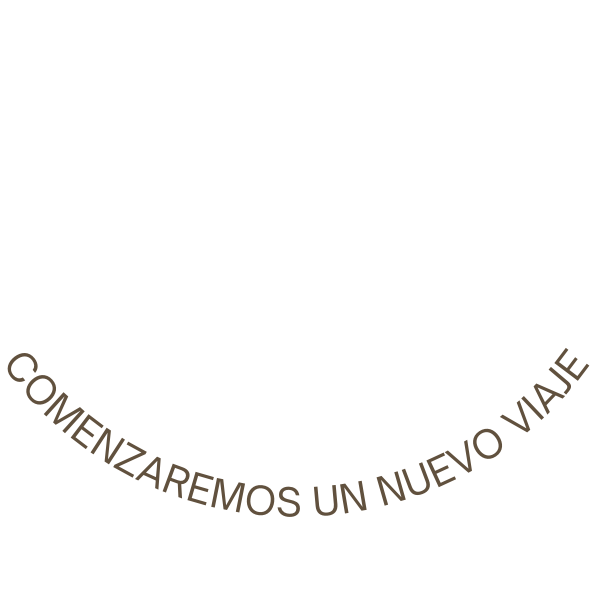
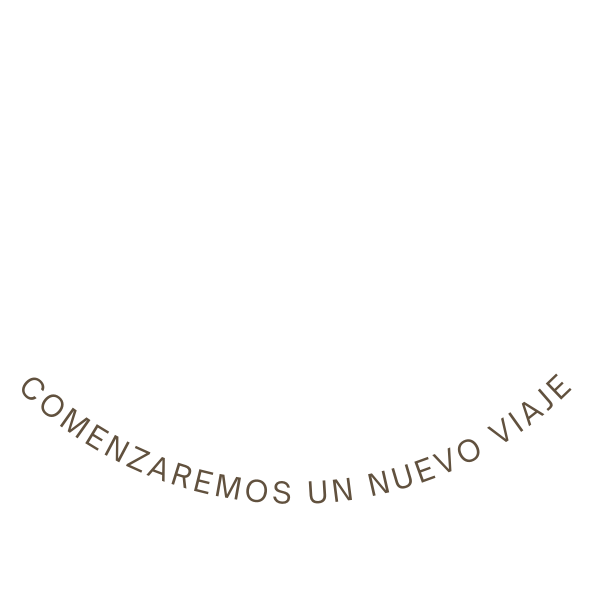
Se mejoró el efecto de las letras y se alineó mejor la imagen con el resto del contenido

Changed region(s): [[0.0, 0.5787, 1.0, 0.8832]]

diff --git a/boda_nicole_ro/src/components/Countdown/Countdown.module.css b/boda_nicole_ro/src/components/Countdown/Countdown.module.css
@@ -118,18 +118,18 @@
 }
 
 .nuevo_viaje {
-  width: 230px;
+  width: 250px;
   height: auto;
-  transform: rotate(35deg);
+  transform: rotate(25deg);
   position: absolute;
-  left: 10%;
-  top: -40%;
+  left: 5%;
+  top: -45%;
 }
 
 .heart_stamp {
   position: absolute;
   z-index: 4;
-  top: 265%;
+  top: -205%;
   left: -2%;
   width: 90px;
   height: auto;
